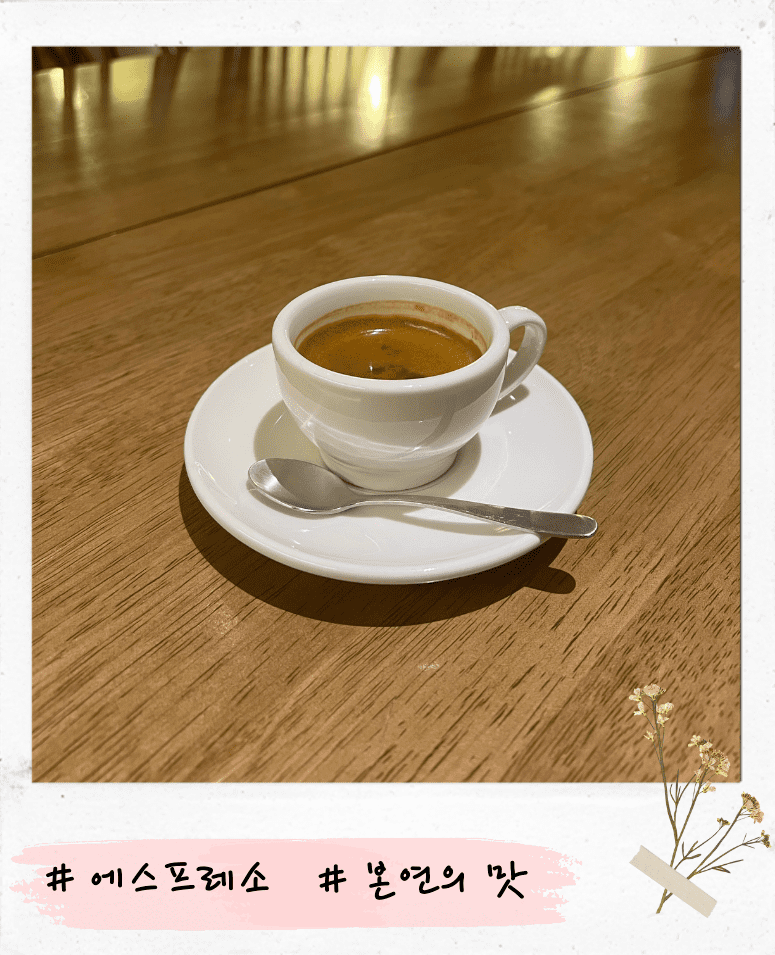
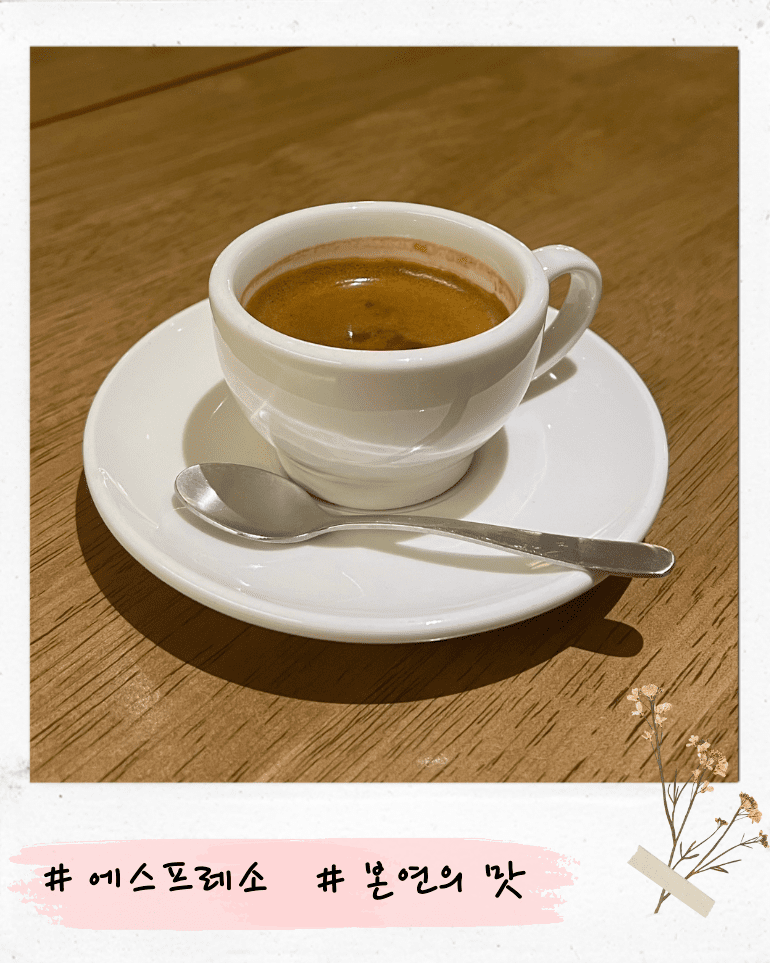
feat: 메뉴 사진 추가

diff --git a/typetest/src/data/results.js b/typetest/src/data/results.js
@@ -38,7 +38,7 @@ const results = {
       "새로운 것보다는 안정적이고 익숙한 것을 좋아해요.",
       "겉으론 티가 잘 안 나지만, 마음속으로는 많은 감정 변화가 있어요.",
     ],
-    imageUrl: "/images/menu/espresso-removebg.png",
+    imageUrl: "/images/menu/cappuccino.png",
     match: ["ESFP", "ESTP"],
   },
   ISFP: {
